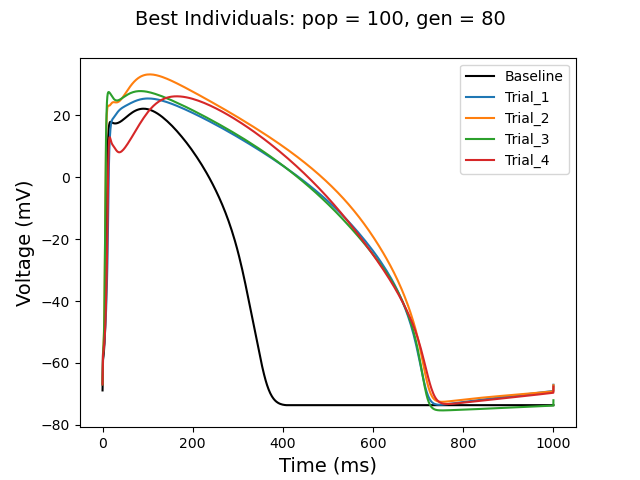
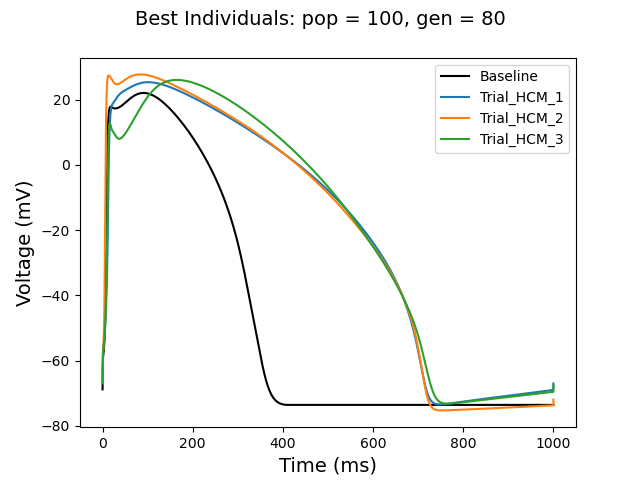
ctrl

diff --git a/GA_cond/plot_GA.py b/GA_cond/plot_GA.py
@@ -9,62 +9,48 @@ from math import log10
 from scipy.signal import find_peaks
 
 #%%
-###### PLOT BEST INDIVIDUALS FROM HCM_GA ALGORITHM #######
+###### PLOT HCM BEST IND #######
 
 t, v = baseline_run()
 plt.plot(t, v, '-k', label = 'Baseline')
 
-ind_1, ind_2, ind_3, ind_4 = ind_excel()
+ind_1, ind_3, ind_4, ind_ctrl1 = ind_excel()
 
-pop = [ind_1, ind_2, ind_3, ind_4]
+pop_HCM = [ind_1, ind_3, ind_4]
+pop_CTRL = [ind_ctrl1]
 
-for i in list(range(0,len(pop))):
-    t, v = plot_GA(pop[i])
-    plt.plot(t, v, label = f'Trial_{i+1}')
+for i in list(range(0,len(pop_HCM))):
+    t, v = plot_GA(pop_HCM[i])
+    plt.plot(t, v, label = f'Trial_HCM_{i+1}')
 
 plt.legend()
 plt.ylabel('Voltage (mV)', fontsize=14)
 plt.xlabel('Time (ms)', fontsize=14)
 plt.suptitle('Best Individuals: pop = 100, gen = 80', fontsize=14)
 plt.savefig('Plot_Best_Inds.png')
+
+####### PLOT CTRL BEST IND ########
+
+for i in list(range(0,len(pop_CTRL))):
+    t, v = plot_GA(pop_CTRL[i])
+    plt.plot(t, v, label = f'Trial_CTRL_{i+1}')
+
+plt.legend()
 plt.show()
 
-######## PRINT FEATURES ##########
-ap_features = {}
-mdp = min(v)
-max_p = max(v)
-max_p_idx = np.argmax(v)
-apa = max_p - mdp
-dvdt_max = np.max(np.diff(v[0:30])/np.diff(t[0:30]))
-
-ap_features['dvdt_max'] = dvdt_max
-peak_v = find_peaks(v, distance=100)
-peak = v[peak_v[0][0]]
-ap_features['peak'] = peak
-ap_features['apa']= apa
-
-for apd_pct in [50, 90]:
-    repol_pot = max_p - apa * apd_pct/100
-    idx_apd = np.argmin(np.abs(v[max_p_idx:] - repol_pot))
-    apd_val = t[idx_apd+max_p_idx]
-
-    ap_features[f'apd{apd_pct}'] = apd_val
-
-ap_features['mdp']= mdp
-
-#print(ap_features)
 
 #%%
-############ PLOT BEST ERROR ################
+############ PLOT BEST ERROR HCM ################
 gen = [i for i in list(range(1,80))]
 
-err_1, err_2, err_3, err_4 = err_excel()
+err_1, err_2, err_3, err_4, err_ctrl1 = err_excel()
 
-err = [err_1, err_2, err_3, err_4]
+err_HCM = [err_1, err_2, err_3, err_4]
+err_CTRL = [err_ctrl1]
 
-for i in list(range(0,len(err))):
-    best_err = list(err[i]['Avg Error'])
-    plt.plot(gen, best_err,'*', label = f'Trial_{i+1}')
+for i in list(range(0,len(err_HCM))):
+    best_err = list(err_HCM[i]['Best Error'])
+    plt.plot(gen, best_err,'*', label = f'Trial_HCM_{i+1}')
 
 plt.legend()
 plt.ylabel('Error', fontsize=14)
@@ -72,20 +58,24 @@ plt.xlabel('Generation', fontsize=14)
 plt.suptitle('Best Errors', fontsize=14)
 plt.ylim(0,5000)
 plt.savefig('Plot_Best_Errors.png')
+
+############ PLOT BEST ERROR CTRL ################
+
+for i in list(range(0,len(err_CTRL))):
+    best_err = list(err_CTRL[i]['Best Error'])
+    plt.plot(gen, best_err,'*', label = f'Trial_CTRL_{i+1}')
+
+plt.legend()
 plt.show()
 
 #%% 
-########## PLOT CONDUCTANCES ############
-trials = []
+########## PLOT HCM CONDUCTANCES ############
 
-for i in list(range(0,len(pop))):
-    trials.append(f'Trial_{i}')
-
-keys = [k for k in pop[0][0].keys()]
+keys = [k for k in pop_HCM[0][0].keys()]
 empty_arrs = [[] for i in range(len(keys))]
 all_ind_dict = dict(zip(keys, empty_arrs))
 
-for ind in pop:
+for ind in pop_HCM:
         for k, v in ind[0].items():
             all_ind_dict[k].append(v)
 
@@ -108,6 +98,42 @@ plt.hlines(0, -.5, (len(keys)-.5), colors='grey', linestyle='--')
 plt.xticks([i for i in range(0, len(keys))], ['GKs', 'GCaL', 'GKr', 'GNa', 'Gto', 'GK1', 'Gf','Gleak','GbNa','GbCa','GNaK'], fontsize=10)
 plt.ylim(log10(0.1), log10(10))
 plt.ylabel('Log10 Conductance', fontsize=14)
+plt.suptitle('Conductances_HCM')
 #plt.legend()
-plt.savefig('Conductances.png')
+plt.savefig('Conductances_HCM.png')
 plt.show()
+
+########## PLOT CTRL CONDUCTANCES ############
+
+keys = [k for k in pop_CTRL[0][0].keys()]
+empty_arrs = [[] for i in range(len(keys))]
+all_ind_dict = dict(zip(keys, empty_arrs))
+
+for ind in pop_CTRL:
+        for k, v in ind[0].items():
+            all_ind_dict[k].append(v)
+
+curr_x = 0
+n = 0
+
+for k, conds in all_ind_dict.items():
+    for i, g in enumerate(conds):
+        g = log10(g)
+        x = curr_x + np.random.normal(0, .01)
+        plt.scatter(x, g) #label = trials[n])
+
+    curr_x += 1
+
+    n += 1
+
+curr_x = 0
+
+plt.hlines(0, -.5, (len(keys)-.5), colors='grey', linestyle='--')
+plt.xticks([i for i in range(0, len(keys))], ['GKs', 'GCaL', 'GKr', 'GNa', 'Gto', 'GK1', 'Gf','Gleak','GbNa','GbCa','GNaK'], fontsize=10)
+plt.ylim(log10(0.1), log10(10))
+plt.ylabel('Log10 Conductance', fontsize=14)
+plt.suptitle('Conductances_CTRL')
+#plt.legend()
+plt.savefig('Conductances_CTRL.png')
+plt.show()
+

diff --git a/GA_cond/functions.py b/GA_cond/functions.py
@@ -152,8 +152,8 @@ def ind_excel():
     ind_1 = pd.read_excel('Best_ind1.xlsx')
     ind_1 = ind_1.to_dict('index')
 
-    ind_2 = pd.read_excel('Best_ind2.xlsx')
-    ind_2 = ind_2.to_dict('index')
+    #ind_2 = pd.read_excel('Best_ind2.xlsx')
+    #ind_2 = ind_2.to_dict('index')
 
     ind_3 = pd.read_excel('Best_ind3.xlsx')
     ind_3 = ind_3.to_dict('index')
@@ -161,7 +161,10 @@ def ind_excel():
     ind_4 = pd.read_excel('Best_ind4.xlsx')
     ind_4 = ind_4.to_dict('index')
 
-    return ind_1, ind_2, ind_3, ind_4
+    ind_ctrl1 = pd.read_excel('Best_ind_ctrl1.xlsx')
+    ind_ctrl1 = ind_ctrl1.to_dict('index')
+
+    return ind_1, ind_3, ind_4, ind_ctrl1
 
 #%%
 def err_excel():
@@ -174,4 +177,6 @@ def err_excel():
 
     err_4 = pd.read_excel('Errors4.xlsx')
 
-    return err_1, err_2, err_3, err_4
+    err_ctrl1 = pd.read_excel('Errors_ctrl1.xlsx')
+
+    return err_1, err_2, err_3, err_4, err_ctrl1
